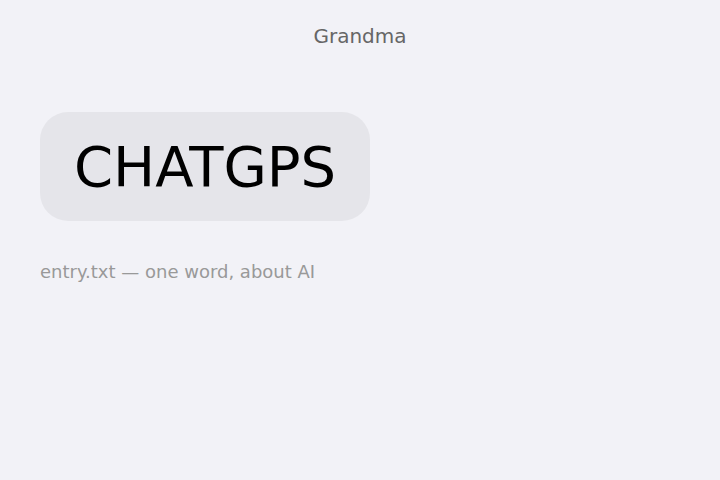
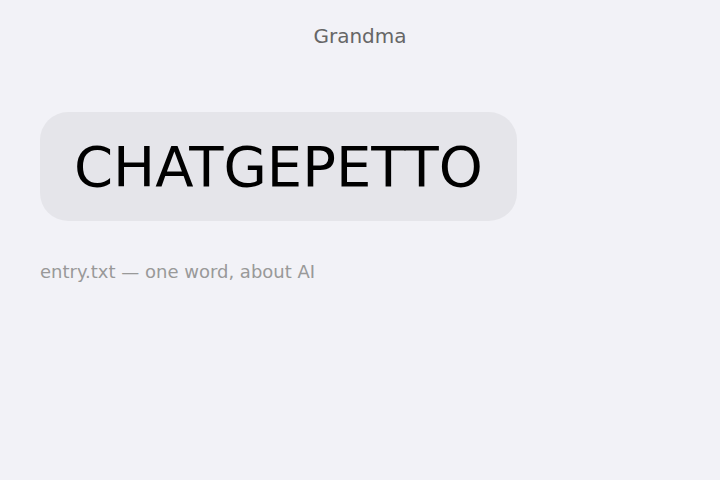
Switch to CHATGEPETTO: fresher mishearing of ChatGPT

Changed region(s): [[0.3667, 0.2812, 0.6722, 0.4062]]

diff --git a/main.ts b/main.ts
@@ -1,8 +1,9 @@
 // One Word From Grandma: write the single word grandma texts about AI.
-// She mixes up ChatGPT with the GPS in the car, and her caps lock is stuck on.
+// She hears "ChatGPT" as Geppetto, the old woodcarver whose puppet came alive,
+// misspells him the way most people do, and her caps lock is stuck on.
 import { mkdirSync, writeFileSync } from "node:fs";
 
-const GRANDMA_WORD = "CHATGPS";
+const GRANDMA_WORD = "CHATGEPETTO";
 
 mkdirSync("/output", { recursive: true });
 writeFileSync("/output/entry.txt", GRANDMA_WORD, "utf8");
